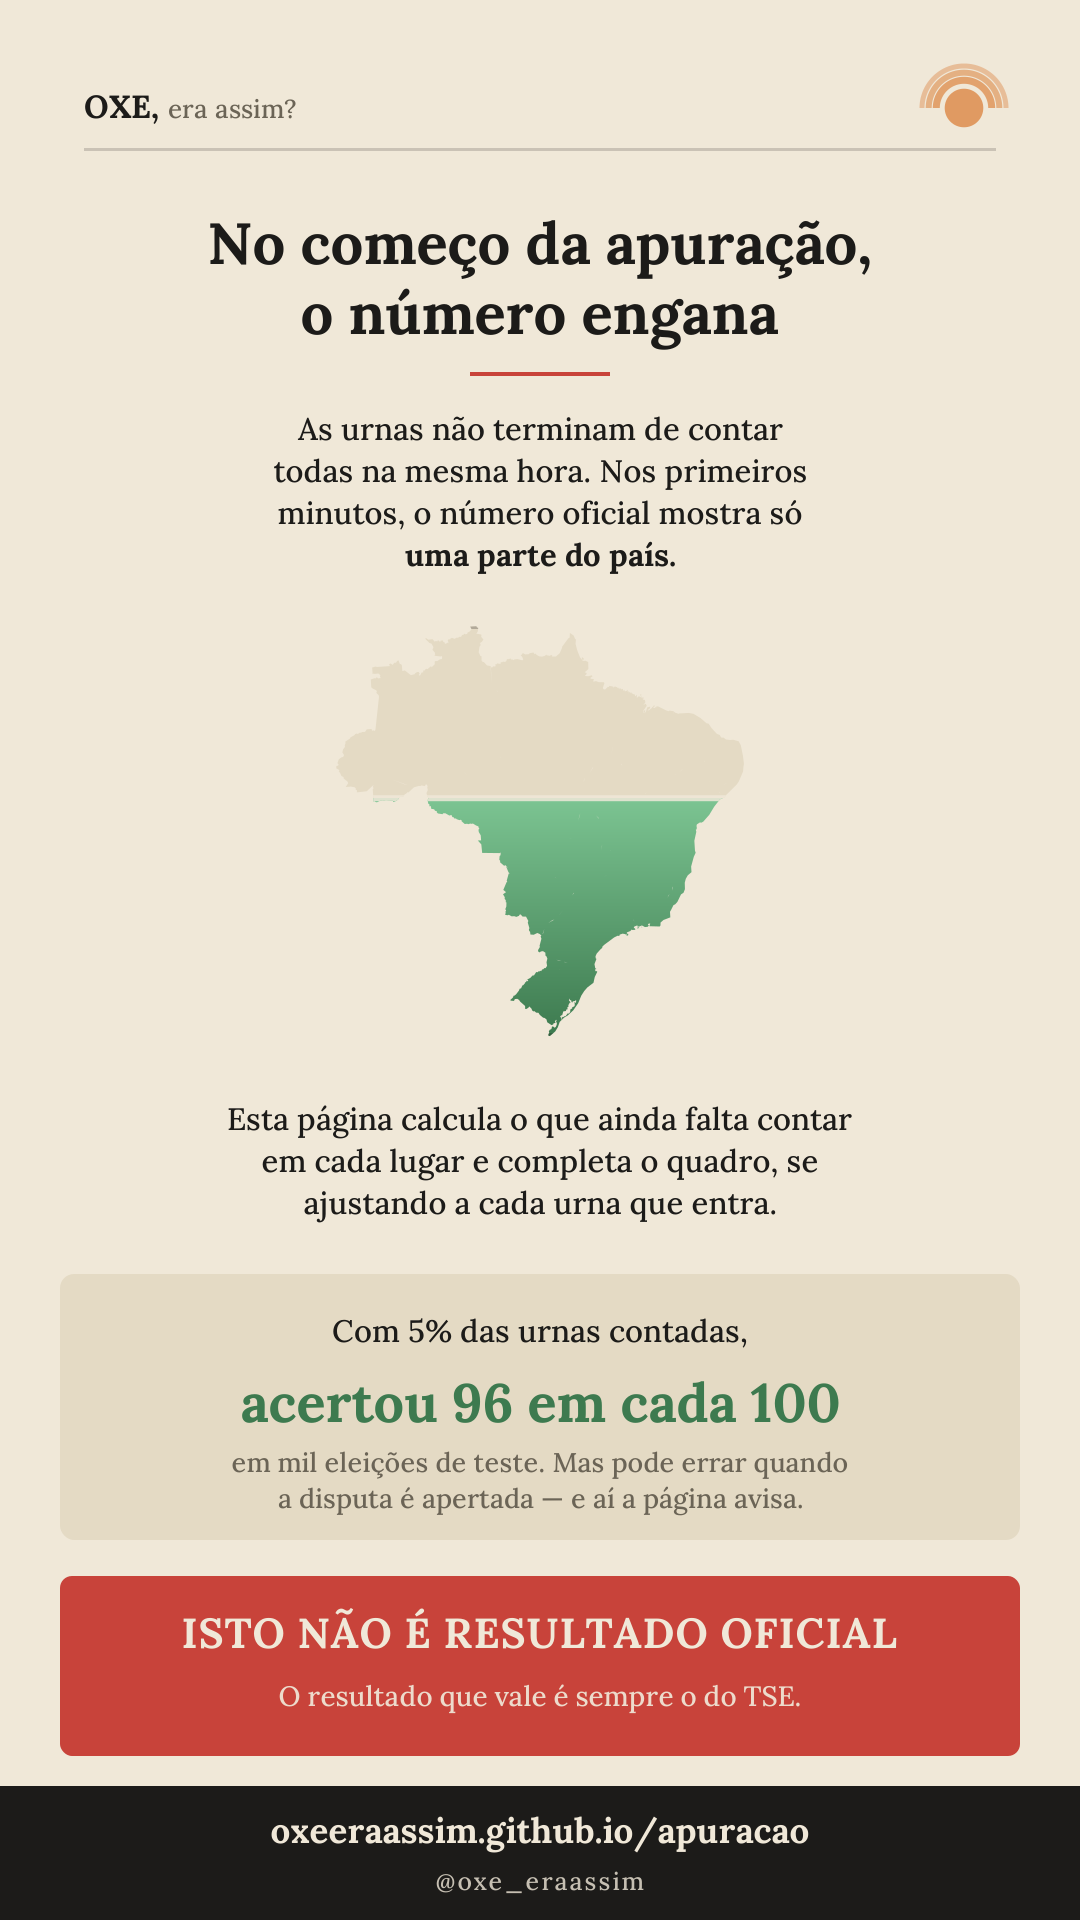
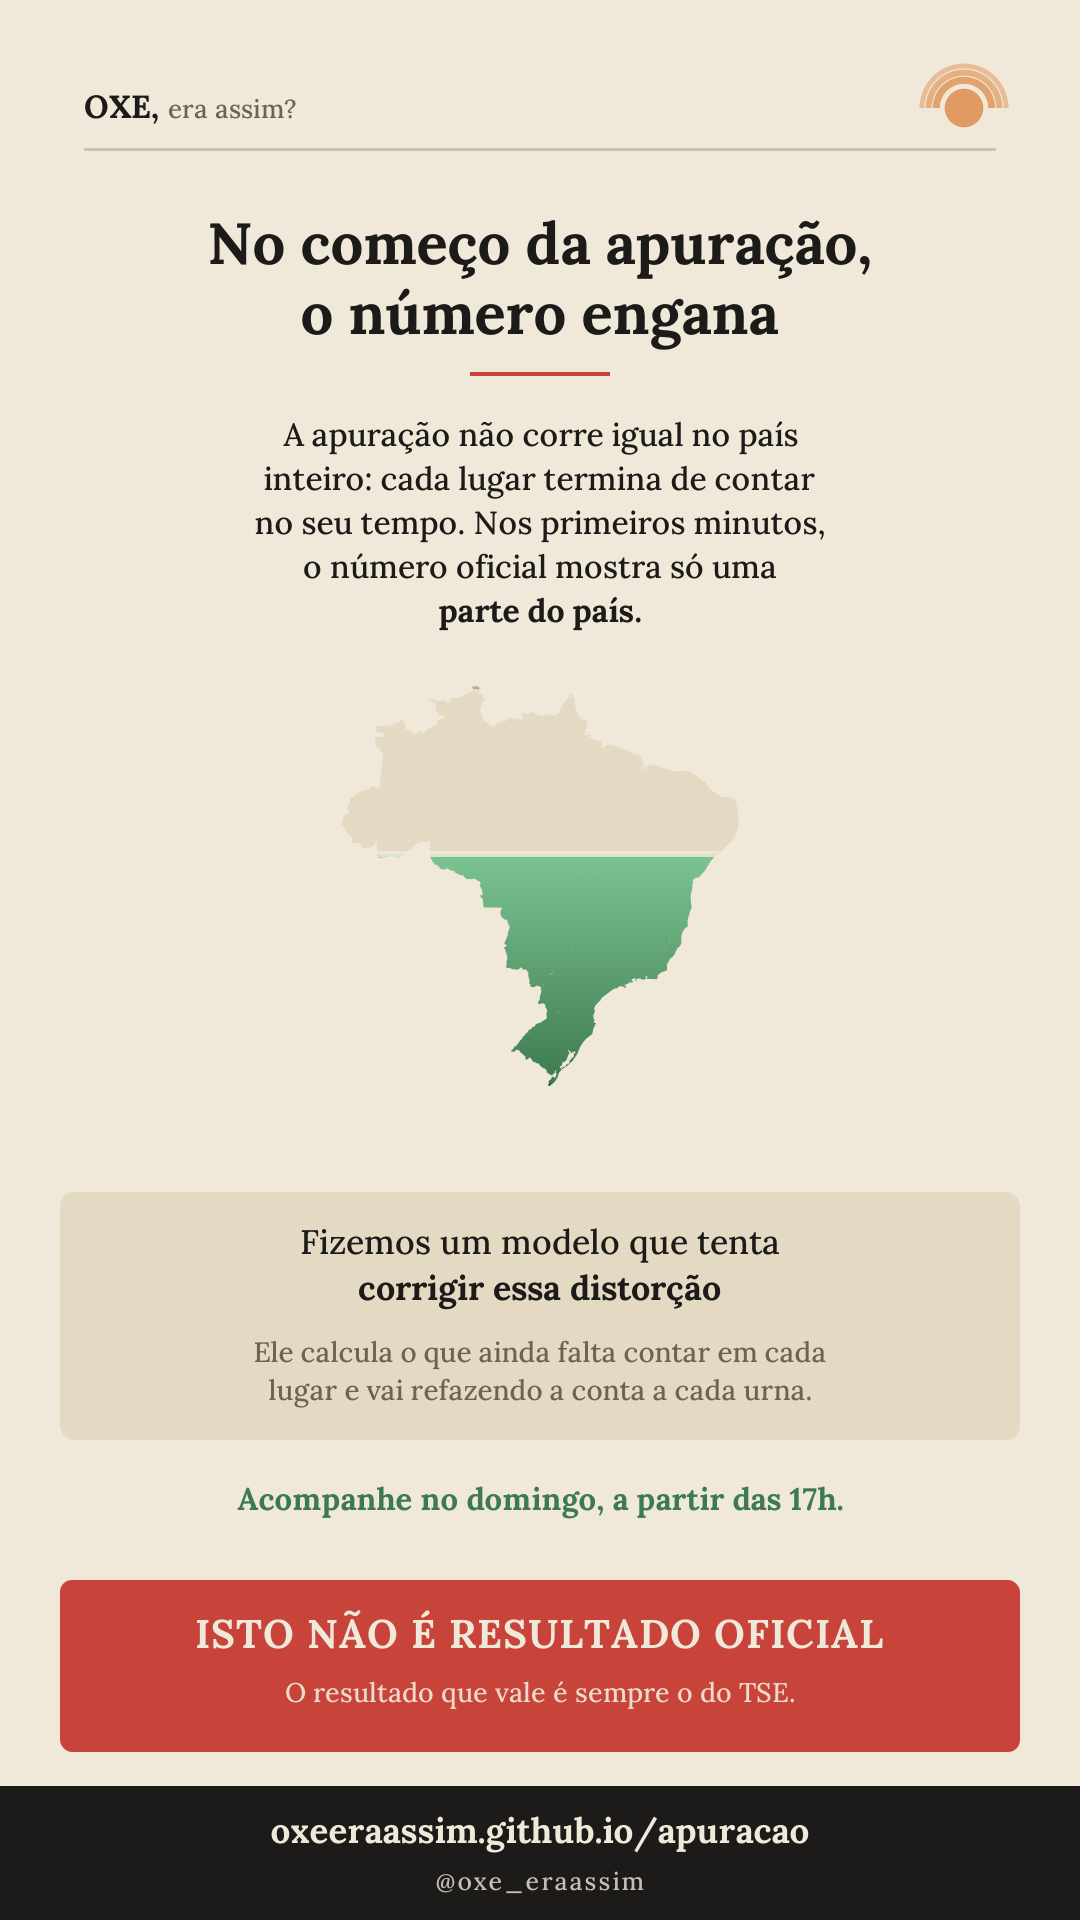
Story sem numeros: explica o problema e convida
Versoes anteriores traziam a tabela de erro e depois o "acertou 96 em cada
100". Informacao correta, mas num story ela trabalha contra: numero pede
leitura atenta, e quem esta passando o dedo nao da essa atencao — entao some
tanto o numero quanto a ressalva que vinha colada nele.

Agora a peca explica o problema (a apuracao nao corre igual no pais inteiro,
cada lugar termina no seu tempo) e diz que existe um modelo tentando
corrigir. Nada de desempenho, nada de promessa: so o convite para ver. A
precisao, a margem e o aviso de quando nao da para saber ficam na pagina, ao
lado de cada numero, que e onde tem como serem lidos com calma.

O que nao sai de nenhuma versao: que isto nao e resultado oficial.

Claude-Session: https://claude.ai/code/session_01GYPZVw83ZkJR9nadBr32Ea

Changed region(s): [[0.1528, 0.4062, 0.825, 0.9062], [0.2444, 0.2188, 0.7639, 0.3438]]

diff --git a/programa/gerar_stories.py b/programa/gerar_stories.py
@@ -5,23 +5,24 @@ IDENTIDADE VISUAL — tirada do próprio perfil @oxe_eraassim
 Papel velho: fundo creme, serifa escura e pesada, vermelho de tinta e o sol
 dourado do logo. Todas as capas dos reels são assim.
 
-POR QUE UM SLIDE SÓ
-A versão anterior tinha dois, e o segundo trazia uma tabela com erro médio e
-pior caso em quatro marcos de apuração. Informação correta, mas no lugar
-errado: num story a pessoa decide em segundos, e uma tabela de números faz
-ela passar. Quem passa não lê nem a parte técnica nem a ressalva.
+POR QUE SEM NÚMEROS
+Versões anteriores traziam a tabela de erro e depois o "acertou 96 em cada
+100". Informação correta, mas num story ela trabalha contra: número pede
+leitura atenta, e quem está passando o dedo não dá essa atenção — então
+some tanto o número quanto a ressalva que vinha com ele.
 
-A precisão continua aqui, só que dita como se diz para alguém na rua — "96
-em cada 100" — e com o limite colado nela, na mesma frase. Quem quiser o
-detalhe encontra a margem na própria página, ao lado de cada número.
+A peça agora explica o problema e diz que existe um modelo tentando
+corrigi-lo. Nada de desempenho, nada de promessa: só o convite para ver. A
+precisão, a margem e o aviso de quando não dá para saber estão na página, ao
+lado de cada número, que é onde eles têm como ser lidos com calma.
 
-ORDEM DA LEITURA
-1. o problema      por que o número do começo engana
-2. a solução       o que o modelo faz, em três linhas
-3. a precisão      quanto acerta, e quando erra
-4. o aviso         não é resultado oficial
-Essa ordem importa: a precisão só aparece depois de a pessoa entender o que
-está sendo medido, e nunca sem o limite ao lado.
+O que não sai em nenhuma versão: que isto não é resultado oficial.
+
+SOBRE A EXPLICAÇÃO REGIONAL
+"A apuração não corre igual no país inteiro" é o jeito honesto de dizer. A
+versão que citava quais regiões contam antes soava como julgamento, e nem
+era a explicação certa — o que importa é que os lugares terminam em tempos
+diferentes, não quais terminam primeiro.
 
 Uso:  python3 gerar_stories.py
 """
@@ -116,36 +117,34 @@ def montar() -> str:
     p.append(f'<rect x="{L / 2 - 70}" y="372" width="140" height="4" '
              f'fill="{VERMELHO}"/>')
 
-    # ---- 2. a explicação, em três frases curtas ----
-    p.append(txt(L / 2, 440, "As urnas não terminam de contar", 31, "400", TINTA))
-    p.append(txt(L / 2, 482, "todas na mesma hora. Nos primeiros", 31, "400", TINTA))
-    p.append(txt(L / 2, 524, "minutos, o número oficial mostra só", 31, "400", TINTA))
-    p.append(txt(L / 2, 566, "uma parte do país.", 31, "700", TINTA))
+    # ---- 2. a explicação ----
+    p.append(txt(L / 2, 446, "A apuração não corre igual no país", 32, "400", TINTA))
+    p.append(txt(L / 2, 490, "inteiro: cada lugar termina de contar", 32, "400", TINTA))
+    p.append(txt(L / 2, 534, "no seu tempo. Nos primeiros minutos,", 32, "400", TINTA))
+    p.append(txt(L / 2, 578, "o número oficial mostra só uma", 32, "400", TINTA))
+    p.append(txt(L / 2, 622, "parte do país.", 32, "700", TINTA))
 
-    p.append(mapa_svg(626, 410))
+    p.append(mapa_svg(686, 400))
 
-    p.append(txt(L / 2, 1130, "Esta página calcula o que ainda falta contar", 31,
-                 "400", TINTA))
-    p.append(txt(L / 2, 1172, "em cada lugar e completa o quadro, se", 31, "400",
-                 TINTA))
-    p.append(txt(L / 2, 1214, "ajustando a cada urna que entra.", 31, "400", TINTA))
-
-    # ---- 3. a precisão, com o limite na mesma respiração ----
-    p.append(f'<rect x="60" y="1274" width="{L - 120}" height="266" rx="14" '
+    # ---- 3. o que fizemos, sem prometer desempenho ----
+    p.append(f'<rect x="60" y="1192" width="{L - 120}" height="248" rx="14" '
              f'fill="{PAPEL_2}"/>')
-    p.append(txt(L / 2, 1342, "Com 5% das urnas contadas,", 31, "400", TINTA))
-    p.append(txt(L / 2, 1346 + 76, "acertou 96 em cada 100", 54, "700", VERDE))
-    p.append(txt(L / 2, 1472, "em mil eleições de teste. Mas pode errar quando", 27,
+    p.append(txt(L / 2, 1254, "Fizemos um modelo que tenta", 34, "400", TINTA))
+    p.append(txt(L / 2, 1300, "corrigir essa distorção", 34, "700", TINTA))
+    p.append(txt(L / 2, 1362, "Ele calcula o que ainda falta contar em cada", 28,
                  "400", TINTA_FRACA))
-    p.append(txt(L / 2, 1508, "a disputa é apertada — e aí a página avisa.", 27,
+    p.append(txt(L / 2, 1400, "lugar e vai refazendo a conta a cada urna.", 28,
                  "400", TINTA_FRACA))
+
+    p.append(txt(L / 2, 1510, "Acompanhe no domingo, a partir das 17h.", 31, "700",
+                 VERDE))
 
     # ---- 4. o aviso ----
-    p.append(f'<rect x="60" y="1576" width="{L - 120}" height="180" rx="12" '
+    p.append(f'<rect x="60" y="1580" width="{L - 120}" height="172" rx="12" '
              f'fill="{VERMELHO}"/>')
-    p.append(txt(L / 2, 1648, "ISTO NÃO É RESULTADO OFICIAL", 42, "700", PAPEL,
+    p.append(txt(L / 2, 1648, "ISTO NÃO É RESULTADO OFICIAL", 40, "700", PAPEL,
                  esp="1"))
-    p.append(txt(L / 2, 1706, "O resultado que vale é sempre o do TSE.", 28, "400",
+    p.append(txt(L / 2, 1702, "O resultado que vale é sempre o do TSE.", 27, "400",
                  PAPEL, op="0.92"))
 
     # ---- link ----
